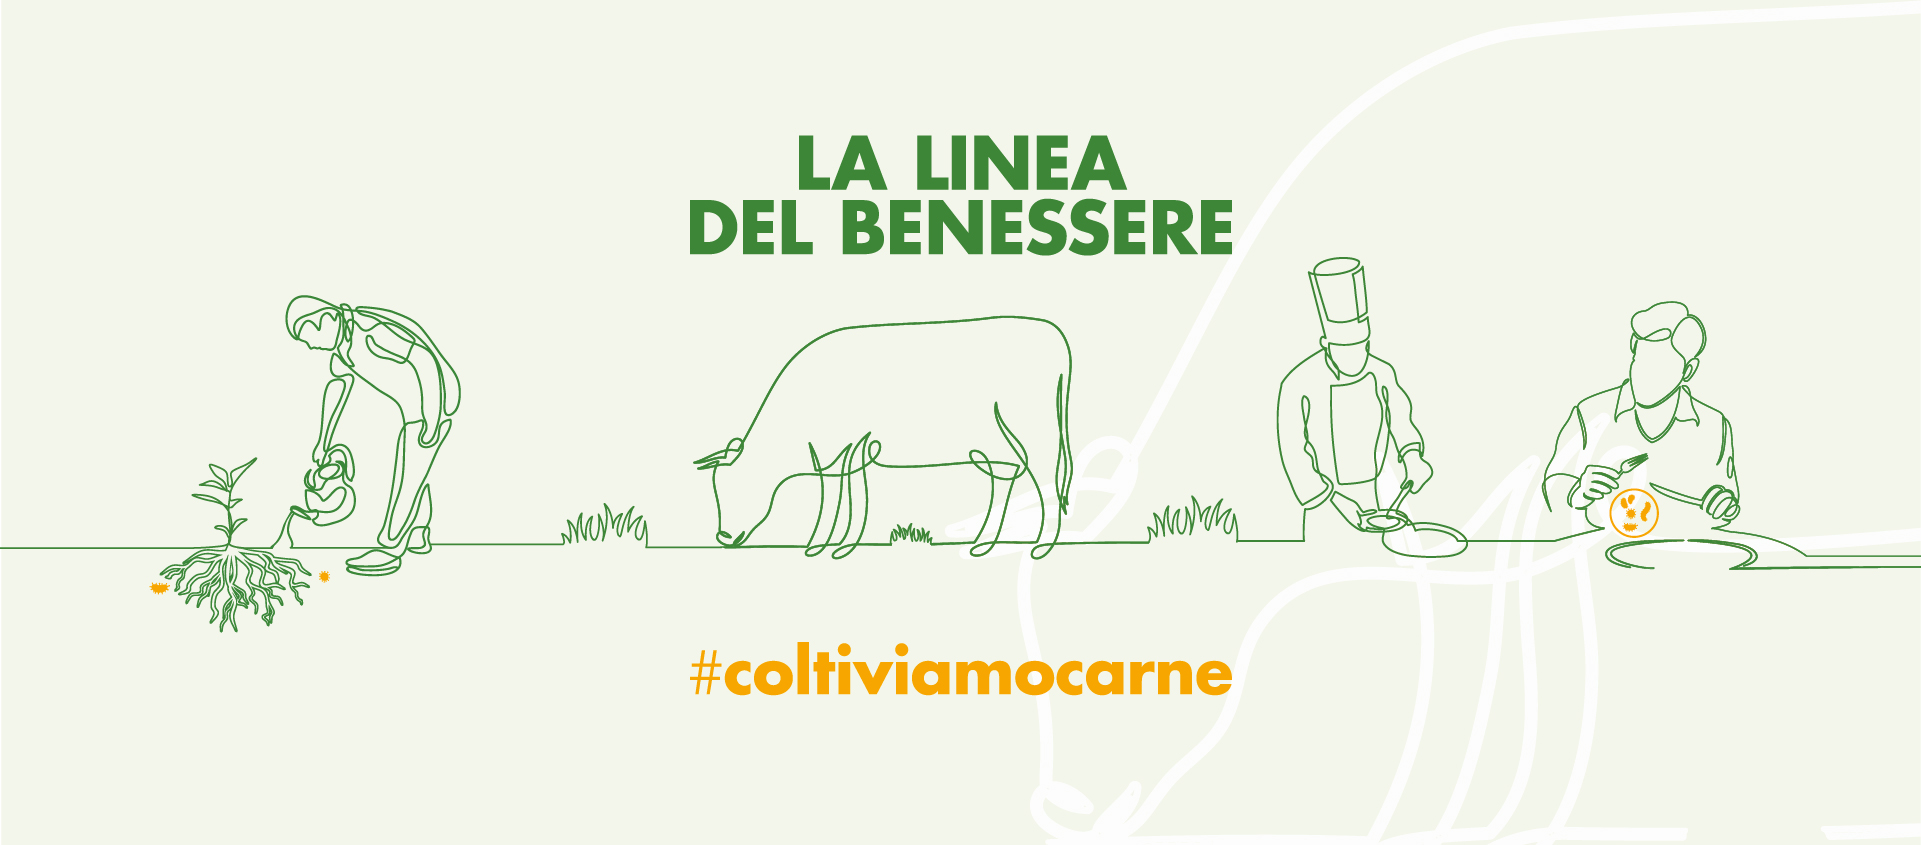
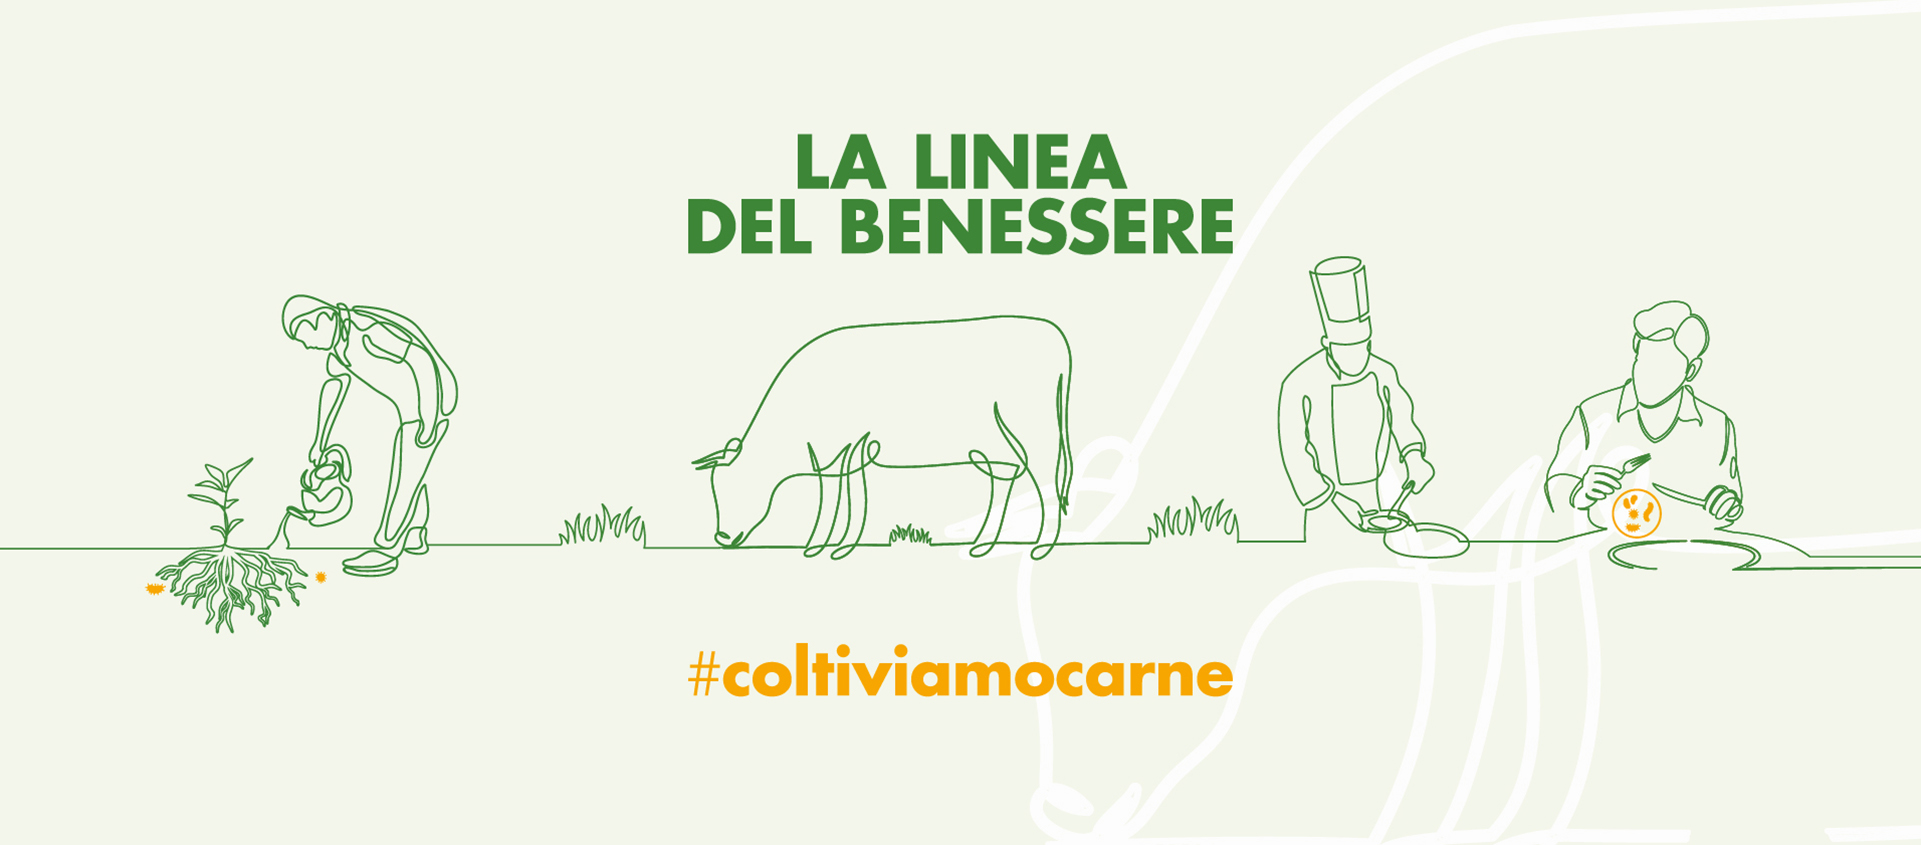
Modifiche immagini carosello

diff --git a/Ecommerce/Content/StyleSheet.min.css b/Ecommerce/Content/StyleSheet.min.css
@@ -1,1 +1,1 @@
-@import url("https://fonts.googleapis.com/css2?family=Arima:wght@600&family=Open+Sans&display=swap");body{font-family:"Open Sans",sans-serif!important;margin:0;padding:0;height:100%;}h1,h2,h3{font-family:"Arima",cursive!important;color:#f00;}section{background-color:rgba(213,194,198,.3019607843);}#inputlogin input{background:none;border:1px solid #000;color:#f00;}#inputregister input{background:none;border:1px solid #000;color:#f00;}.card #loginright{background-color:#f00;color:#fff;}@media(min-width:768px){.gradient-form{height:100vh!important;}}@media(min-width:769px){.gradient-custom-2{border-top-right-radius:.3rem;border-bottom-right-radius:.3rem;}}#navbar{position:sticky;top:0;z-index:100;background-color:#efefef;}.container-fluid{font-family:"Arima",cursive!important;background-color:#fff;border-bottom:1px solid;height:120px;}.container-fluid .button :hover{color:#ffaf04;}.container-fluid .button input{border:0;background:none;}.container-fluid .centered-logo{display:flex;justify-content:center;align-items:center;height:120px;}.container-fluid .centered-logo input{width:100px;margin-right:12em;}.carousel-inner{height:25em;}#content .img-title{width:150px;}#content3 .img-title{max-width:600px;}#content3 .text-title{background-color:#94052d;width:100%;height:4em;margin:2em 0 2em 0;display:flex;justify-content:center;align-items:center;}#content3 .text-title h2{color:#fff;display:flex;justify-content:center;align-items:center;margin:0;}#content4{cursor:pointer;}#content4 h3{margin:0;}#content4 .card{border:1px solid #000;border-radius:inherit;padding:1em;display:flex;margin:1em;}#content5 h2{margin-bottom:1em;margin-top:1em;}#content5 h3{font-size:2em;}#content6{margin-bottom:5em;margin-left:auto;margin-right:auto;width:80%;}#content6 .homeCard{height:50%;width:100%;}#content6 .homeCard .cardContent{width:40%;padding:2em;display:flex;flex-direction:column;align-items:center;background-color:#fff;text-align:center;}#content6 .homeCard .cardContent .textGold{color:#ca5;}#content6 .homeCard .cardContent .textGrey{color:#808080;}#content6 .homeCard .cardContent .cardTitle{font-size:53px;margin-bottom:1em;}#content6 .homeCard .cardContent .myBtn{background:#ca5;border:0;padding:.5em 2em;text-transform:uppercase;color:#fff;margin-top:1em;}#content6 .homeImage{height:70%;width:70%;object-fit:cover;}.cartTable{display:flex;justify-content:center;width:100%;}.cartTable tbody{width:60%;}.cartTable .cartImg{height:4em;}.cartTable th{padding:5px 10px;width:10%;}.cartTable td{padding:5px 10px;}.notifica{position:absolute;right:-15px;top:3px;font-size:9px;padding:2px 6px;color:#fff;}.card{border:0;}.card .card-text{font-size:18px;}.card .card-body input{background:none;border:1px solid #f00;color:#f00;}.butt{background:none;border:1px solid #f00;color:#f00;}.img-container{overflow:hidden;}.noPromo{display:none;}.promoSticker{position:absolute;width:55px;right:8px;top:10px;z-index:1;}.card{display:block;overflow:hidden;}.card-img-top{height:15em;object-fit:cover;transform:scale(1);transition:transform .8s;}.card-img-top:hover{transform:scale(1.1);transition:transform ease-out .8s;}.butt{background:none;border:1px solid #f00;color:#f00;}
+@import url("https://fonts.googleapis.com/css2?family=Arima:wght@600&family=Open+Sans&display=swap");body{font-family:"Open Sans",sans-serif!important;margin:0;padding:0;height:100%;}h1,h2,h3{font-family:"Arima",cursive!important;color:#f00;}section{background-color:rgba(213,194,198,.3019607843);}#inputlogin input{background:none;border:1px solid #000;color:#f00;}#inputregister input{background:none;border:1px solid #000;color:#f00;}.card #loginright{background-color:#f00;color:#fff;}@media(min-width:768px){.gradient-form{height:100vh!important;}}@media(min-width:769px){.gradient-custom-2{border-top-right-radius:.3rem;border-bottom-right-radius:.3rem;}}#navbar{position:sticky;top:0;z-index:100;background-color:#efefef;}.container-fluid{font-family:"Arima",cursive!important;background-color:#fff;border-bottom:1px solid;height:120px;}.container-fluid .button :hover{color:#ffaf04;}.container-fluid .button input{border:0;background:none;}.container-fluid .centered-logo{display:flex;justify-content:center;align-items:center;height:120px;}.container-fluid .centered-logo input{width:100px;margin-right:12em;}.carousel-inner{height:25em;}.fit-carousel{object-fit:cover;height:30em;}@media screen and (max-width:600px){.carousel-inner{height:18em;}.fit-carousel{object-fit:cover;height:100%;}}#content .img-title{width:150px;}#content3 .img-title{max-width:600px;}#content3 .text-title{background-color:#94052d;width:100%;height:4em;margin:2em 0 2em 0;display:flex;justify-content:center;align-items:center;}#content3 .text-title h2{color:#fff;display:flex;justify-content:center;align-items:center;margin:0;}#content4{cursor:pointer;}#content4 h3{margin:0;}#content4 .card{border:1px solid #000;border-radius:inherit;padding:1em;display:flex;margin:1em;}#content5 h2{margin-bottom:1em;margin-top:1em;}#content5 h3{font-size:2em;}#content6{margin-bottom:5em;margin-left:auto;margin-right:auto;width:80%;}#content6 .homeCard{height:50%;width:100%;}#content6 .homeCard .cardContent{width:40%;padding:2em;display:flex;flex-direction:column;align-items:center;background-color:#fff;text-align:center;}#content6 .homeCard .cardContent .textGold{color:#ca5;}#content6 .homeCard .cardContent .textGrey{color:#808080;}#content6 .homeCard .cardContent .cardTitle{font-size:53px;margin-bottom:1em;}#content6 .homeCard .cardContent .myBtn{background:#ca5;border:0;padding:.5em 2em;text-transform:uppercase;color:#fff;margin-top:1em;}#content6 .homeImage{height:70%;width:70%;object-fit:cover;}.cartTable{display:flex;justify-content:center;width:100%;}.cartTable tbody{width:60%;}.cartTable .cartImg{height:4em;}.cartTable th{padding:5px 10px;width:10%;}.cartTable td{padding:5px 10px;}.notifica{position:absolute;right:-15px;top:3px;font-size:9px;padding:2px 6px;color:#fff;}.card{border:0;}.card .card-text{font-size:18px;}.card .card-body input{background:none;border:1px solid #f00;color:#f00;}.butt{background:none;border:1px solid #f00;color:#f00;}.img-container{overflow:hidden;}.noPromo{display:none;}.promoSticker{position:absolute;width:55px;right:8px;top:10px;z-index:1;}.card{display:block;overflow:hidden;}.card-img-top{height:15em;object-fit:cover;transform:scale(1);transition:transform .8s;}.card-img-top:hover{transform:scale(1.1);transition:transform ease-out .8s;}.butt{background:none;border:1px solid #f00;color:#f00;}

diff --git a/Ecommerce/Content/StyleSheet.scss b/Ecommerce/Content/StyleSheet.scss
@@ -105,6 +105,20 @@ section {
     height: 25em;
 }
 
+.fit-carousel {
+    object-fit: cover;
+    height: 30em;
+}
+
+@media screen and (max-width: 600px) {
+    .carousel-inner {
+        height: 18em;
+    }
+    .fit-carousel {
+        object-fit: cover;
+        height: 100%;
+    }
+}
 
 /*Content*/
 #content {

diff --git a/Ecommerce/Content/StyleSheet.css b/Ecommerce/Content/StyleSheet.css
@@ -85,6 +85,20 @@ section {
   height: 25em;
 }
 
+.fit-carousel {
+  object-fit: cover;
+  height: 30em;
+}
+
+@media screen and (max-width: 600px) {
+  .carousel-inner {
+    height: 18em;
+  }
+  .fit-carousel {
+    object-fit: cover;
+    height: 100%;
+  }
+}
 /*Content*/
 #content .img-title {
   width: 150px;
